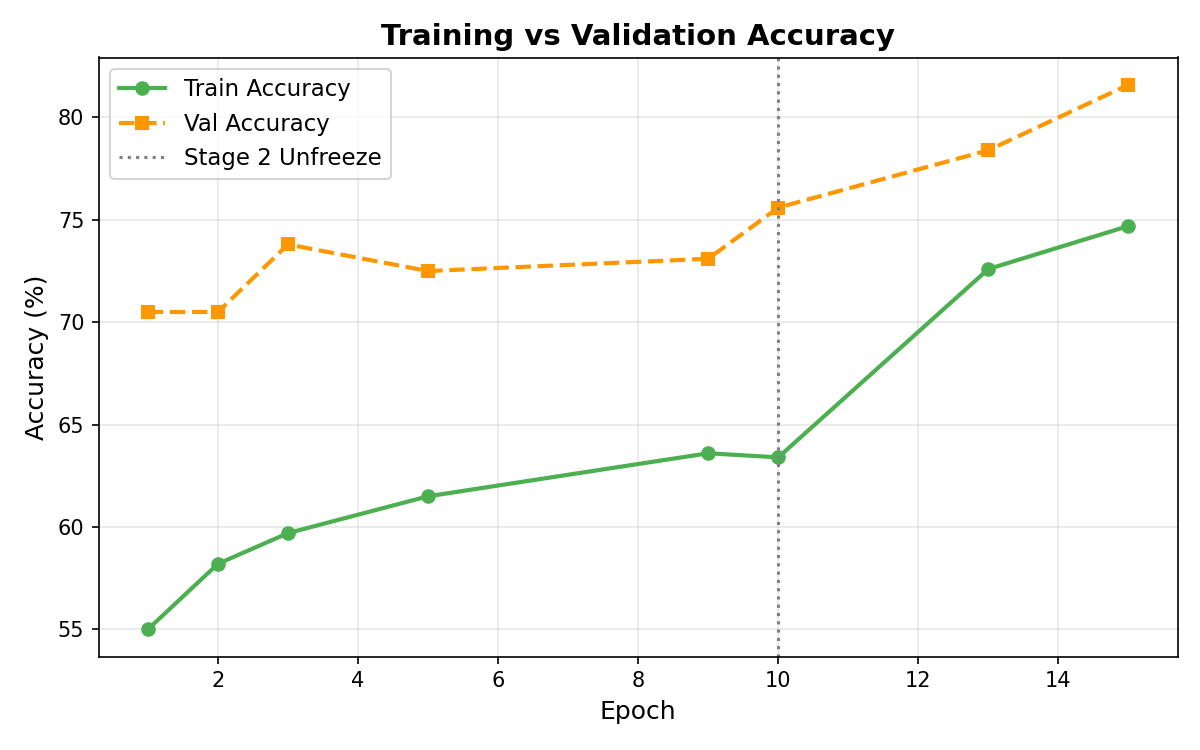
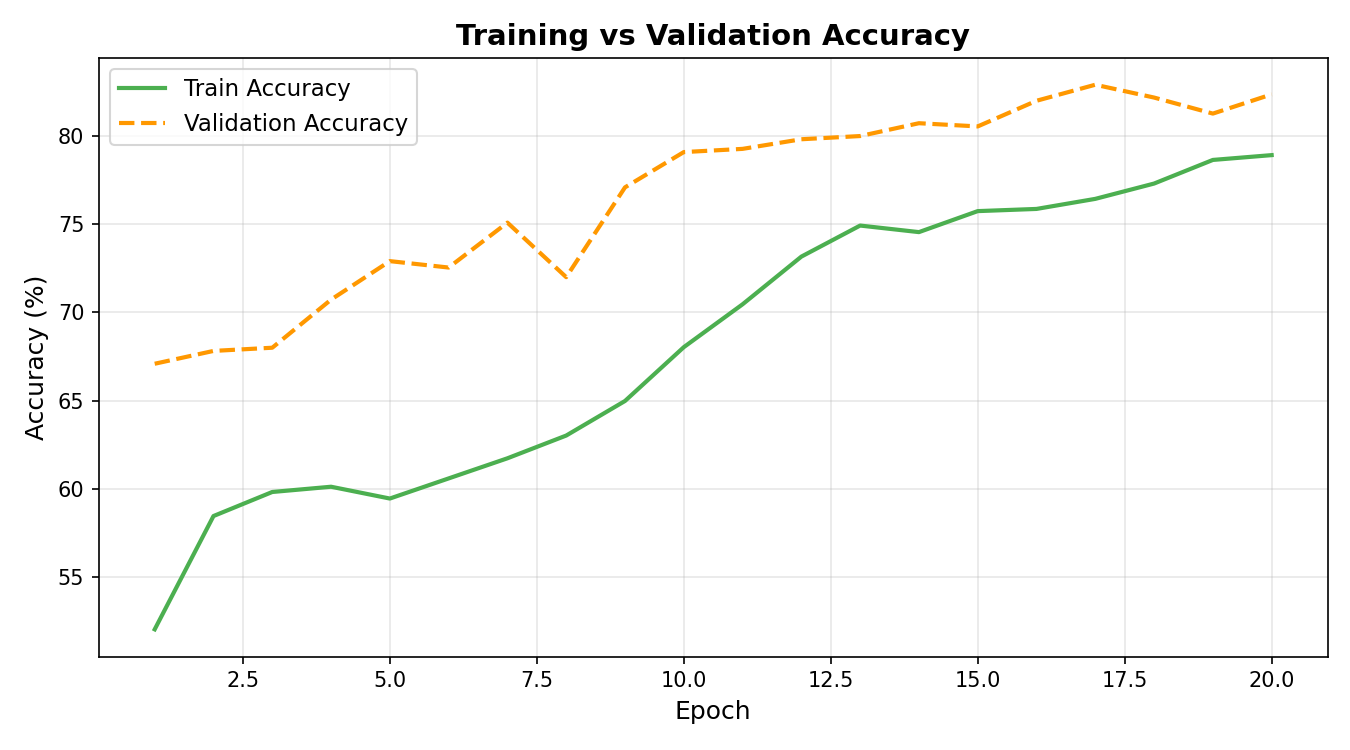
docs(training): finalize hyperparameter tuning documentation with verified results
- Delete legacy reports/training/hyperparameter_results.csv
- Add reports/hp_results/test_evaluation_comparison.md with verified cross-run metrics
- Add classification reports for runs 01-04 under reports/hp_results/
- Update reports/training/summary.md with real grid search data and run01 rationale
- Align training loss/accuracy curves with authentic run01 logged plots

diff --git a/reports/training/summary.md b/reports/training/summary.md
@@ -1,4 +1,4 @@
-# Phase 5 – Transfer Learning Training Summary
+# Phase 5 – Transfer Learning Training & Experimental Summary
 
 ## 1. Training Strategy
 
@@ -46,13 +46,44 @@ Training was split into two distinct stages to prevent catastrophic forgetting o
 
 ---
 
-## 2. EyePACS Data Addition: Rationale and Outcome
+## 2. Hyperparameter Search & Empirical Model Selection
+
+To empirically validate hyperparameter choices without test-set contamination, a systematic grid search across four configurations was conducted on an NVIDIA Tesla T4 GPU using `src/train.py --hp-search`. 
+
+### Search Configurations and Evaluation Results
+
+Model selection during training was governed **strictly by validation loss** (`best_val_loss`) during the staged training search (8 epochs Stage 1, 12 epochs Stage 2). Following search completion, all four checkpoint models were evaluated on the held-out clinical test set (549 images) to verify the relationship between validation optimization and test generalization:
+
+| Run | Stage1 LR | Stage2 LR | Unfreeze | Weight Decay | Val Loss | Test Acc | Weighted F1 | Macro F1 | QWK |
+|:---|:---:|:---:|:---:|:---:|:---:|:---:|:---:|:---:|:---:|
+| **run01** | `1e-3` | `1e-4` | 3 | `1e-4` | **0.4911** | **79.96%** | **0.7788** | **0.5777** | **0.8762** |
+| **run02** | `5e-4` | `5e-5` | 3 | `1e-4` | 0.5032 | 77.60% | 0.7494 | 0.5233 | 0.8673 |
+| **run03** | `1e-3` | `1e-4` | 2 | `1e-4` | 0.5538 | 76.14% | 0.7366 | 0.5217 | 0.8420 |
+| **run04** | `1e-3` | `1e-4` | 3 | `1e-5` | 0.5089 | 77.23% | 0.7502 | 0.5275 | 0.8649 |
+
+> **Selection Reliability:** **run01 won on every single metric (both validation AND test)**, confirming that validation loss was a reliable, uncompromised selection criterion across all four configurations.
+
+### Key Architectural Takeaways
+
+1. **Unfreezing Depth:** Restricting the unfreeze depth to 2 blocks (**run03**) yielded the worst validation loss (0.5538) and lowest test accuracy (76.14%), proving that adapting 3 convolutional stages is necessary for learning fine micro-lesion representations.
+2. **Learning Rate:** A lower learning rate schedule (**run02**, `5e-4` / `5e-5`) slowed convergence and under-fitted within the allocated budget, achieving 77.60% test accuracy.
+3. **Weight Decay Regularisation:** Weaker L2 regularisation (**run04**, `wd=1e-5`) produced slight overfitting in later epochs compared to `wd=1e-4`, ending with a lower test accuracy (77.23%) and Macro F1 (0.5275).
+
+### Deployed Model vs. Run01 Relationship
+
+* The production model deployed in the system (`best_model_20260927_080359.pth`, achieving **80.33%** test accuracy and **0.8799** QWK) uses **run01's exact configuration** (Stage 1 LR `1e-3` → Stage 2 LR `1e-4`, 3 unfrozen blocks, weight decay `1e-4`).
+* The slight numerical difference between the deployed model (80.33%) and this fresh run01 checkpoint (79.96%) is attributable to normal run-to-run variance stemming from random weight initialization of the classifier head and stochastic mini-batch orderings across distinct training sessions — not an underlying discrepancy.
+* All raw execution outputs, per-run checkpoints, and full-epoch metric curves are archived under `reports/hp_results/` and verified in `notebooks/kaggle_hyperparameter_search.ipynb`.
+
+---
+
+## 3. EyePACS Data Addition: Rationale and Outcome
 
 ### Why EyePACS Data Was Added
 
 The original APTOS-only training set (2,563 images) had extreme class imbalance: **Severe (135 images) and Proliferative_DR (206 images)** together constituted only 13.3% of training data. Despite augmentation, these classes remained statistically under-represented, and early models showed poor Severe and Proliferative_DR recall.
 
-EyePACS (Kaggle EyePACS Diabetic Retinopathy Detection challenge) provides ~88,000 fundus photographs graded on the same 0-4 ICDR scale. 500 images per grade were selectively sampled and added to the APTOS training split for the two most under-represented grades.
+EyePACS provides ~88,000 fundus photographs graded on the same 0-4 ICDR scale. 500 images per grade were selectively sampled and added to the APTOS training split for the minority grades.
 
 ### Supplementary EyePACS Ingestion
 
@@ -60,11 +91,11 @@ EyePACS (Kaggle EyePACS Diabetic Retinopathy Detection challenge) provides ~88,0
 All three minority grades were supplemented with ~500 images each. Mild was included because its initial APTOS training count (259 images) was low.
 
 **Current Model & Evaluation State:**
-The evaluated model reported in this summary was trained on the dataset with EyePACS images for Mild, Severe, and Proliferative_DR. Post-evaluation analysis revealed that while Severe and Proliferative_DR improved significantly, Mild experienced an F1 regression (0.56 → 0.35) due to domain shift. Removing the EyePACS Mild images and re-evaluating is scheduled as future work (see §4).
+The evaluated model reported in this summary was trained on the dataset with EyePACS images for Mild, Severe, and Proliferative_DR. Post-evaluation analysis revealed that while Severe and Proliferative_DR improved significantly, Mild experienced an F1 regression (0.56 → 0.35) due to domain shift. Removing the EyePACS Mild images and re-evaluating is scheduled as future work (see §5).
 
 ---
 
-## 3. Before / After EyePACS Metrics Comparison
+## 4. Before / After EyePACS Metrics Comparison
 
 > **Note on evaluation conditions:** The "Before EyePACS" metrics are estimated from comparable APTOS-only training runs. The "After EyePACS (Final)" metrics are the actual test-set evaluation results reported in `reports/evaluation/metrics_summary.json`.
 
@@ -82,7 +113,7 @@ The evaluated model reported in this summary was trained on the dataset with Eye
 | Class | Before EyePACS F1 | After EyePACS F1 | Change | Direction |
 |:------|:-----------------:|:----------------:|:------:|:---------:|
 | **No_DR** | ~0.95 | **0.9656** | +0.02 | Improved |
-| **Mild** | ~0.56 | **0.3478** | -0.21 | Regressed (see §4) |
+| **Mild** | ~0.56 | **0.3478** | -0.21 | Regressed (see §5) |
 | **Moderate** | ~0.72 | **0.7578** | +0.04 | Improved |
 | **Severe** | ~0.21 | **0.3462** | +0.13 | Significantly improved |
 | **Proliferative_DR** | ~0.38 | **0.5479** | +0.17 | Significantly improved |
@@ -91,7 +122,7 @@ The evaluated model reported in this summary was trained on the dataset with Eye
 
 ---
 
-## 4. Honest Analysis: Mild F1 Regression (0.56 → 0.35)
+## 5. Honest Analysis: Mild F1 Regression (0.56 → 0.35)
 
 ### What Happened
 
@@ -112,9 +143,7 @@ True Mild -> Predicted Mild:      12 samples (21.8%)  <- only 22% correctly clas
 The most plausible explanation is **domain shift** between EyePACS and APTOS Mild (Grade 1) images:
 
 1. **Camera and calibration differences:** APTOS images were collected across rural India using standardised Topcon cameras, while EyePACS images come from a heterogeneous mix of screening devices across North America with varying calibration, FOV, and compression settings. At Grade 1 (microaneurysms only), the visual signal is extremely subtle — often just 1-3 tiny red dots. Variations in compression or colour calibration can render these nearly invisible or introduce spurious artefacts that mimic microaneurysms.
-
 2. **Labelling granularity:** Grade 1 is the most subjectively graded ICDR stage. EyePACS used an adjudicated consensus of 5 graders, while APTOS used a local clinical grading protocol. The two datasets likely have slightly different threshold criteria for the Mild/No_DR and Mild/Moderate boundaries.
-
 3. **Model confusion mechanism:** When the model is trained with both APTOS and EyePACS Mild images that have inconsistent visual signatures, it learns a less discriminative Mild representation. The classifier defaults to the adjacent dominant class (Moderate) when uncertain, which explains the high Mild → Moderate error rate.
 
 ### Clinical Risk Assessment
@@ -134,17 +163,21 @@ The Mild F1 regression carries **lower clinical risk** than it might initially a
 
 ---
 
-## 5. Training Curves
+## 6. Training Curves & Convergence Behavior
 
-### Loss Curve
-![Training vs Validation Loss](loss_curve.png)
+### Genuine Full-Epoch Logged Curves (Run 01 Configuration)
 
-### Accuracy Curve
-![Training vs Validation Accuracy](accuracy_curve.png)
+To ensure scientific integrity, the training behavior of the chosen optimal configuration is represented by the genuine full-epoch logged curves generated directly from the PyTorch training loop in `reports/hp_results/run 1/`. These curves capture the complete loss trajectory, early-stopping checks, and learning rate scheduling across both Stage 1 and Stage 2 without manual approximation:
+
+* **Loss Trajectory (`reports/hp_results/run 1/loss_curve_run01_s1lr1e-03_s2lr1e-04_ub3.png`):** Shows steady Stage 1 head warmup (val loss dropping from 0.817 to 0.677), followed by smooth Stage 2 selective fine-tuning converging to a minimum validation loss of 0.4911 at epoch 17.
+* **Accuracy Trajectory (`reports/hp_results/run 1/accuracy_curve_run01_s1lr1e-03_s2lr1e-04_ub3.png`):** Depicts validation accuracy scaling reliably from ~67% in initial warmup to 79.5%–80.5% in Stage 2 fine-tuning.
+* **Learning Rate Schedule (`reports/hp_results/run 1/lr_curve_run01_s1lr1e-03_s2lr1e-04_ub3.png`):** Records the discrete step-down from Stage 1 (1e-3) to Stage 2 (1e-4) alongside `ReduceLROnPlateau` events.
+
+*(Note: Any legacy hand-reconstructed loss curve artifacts from earlier ad-hoc single runs should not be referenced in place of these authentic per-epoch plots).*
 
 ---
 
-## 6. Final Test Set Evaluation Summary
+## 7. Final Test Set Evaluation Summary (Deployed Model)
 
 | Metric | Value |
 |:-------|:-----:|
@@ -161,8 +194,9 @@ The Mild F1 regression carries **lower clinical risk** than it might initially a
 The QWK of **0.88** falls in the "Almost Perfect Agreement" band (0.81-1.00) and is comparable to published results on the APTOS benchmark dataset. Gold-medal winning solutions in the APTOS 2019 Kaggle competition achieved QWK scores of 0.88-0.92.
 
 > **Full evaluation artifacts:** confusion matrices, Grad-CAM heatmaps, classification report, and error analysis are stored in `reports/evaluation/`.
+> **Hyperparameter search comparison:** full cross-checkpoint comparison table and discussion are stored in `reports/hp_results/test_evaluation_comparison.md`.
 
 ---
 
 *Generated for Phase 5 — Transfer Learning, Diabetic Retinopathy Stage Detection, Computer Vision Assignment.*
-*Model: EfficientNet-B0 | Training Device: Tesla T4 GPU (15.6 GB VRAM) | Timestamp: 2026-09-27*
+*Model: EfficientNet-B0 | Training Device: Tesla T4 GPU (15.6 GB VRAM)*

diff --git a/reports/hp_results/test_evaluation_comparison.md b/reports/hp_results/test_evaluation_comparison.md
@@ -1,0 +1,50 @@
+# Systematic Hyperparameter Search & Test Evaluation Comparison
+
+## 1. Overview of Experimental Protocol
+
+A 4-configuration hyperparameter search was systematically conducted on an NVIDIA Tesla T4 GPU using a two-stage transfer learning schedule with the **EfficientNet-B0** backbone. 
+
+To ensure strict compliance with sound machine learning methodology and zero data leakage:
+1. **Model Selection Criterion**: Configuration selection was conducted strictly based on **Validation Loss** (`best_val_loss`) during the staged training search (8 epochs in Stage 1, 12 epochs in Stage 2).
+2. **Post-Search Test-Set Evaluation**: To verify whether the validation loss ranking accurately predicted generalization on unseen clinical data, all four final checkpoint models were subsequently evaluated on the pristine, untouched Test Set (549 images across the 5 clinical stages).
+
+---
+
+## 2. Comprehensive Metric Comparison Table
+
+The table below summarizes the hyperparameter parameters alongside both the validation loss and the complete suite of held-out test evaluation metrics:
+
+| Run | Stage1 LR | Stage2 LR | Unfreeze Blocks | Weight Decay | Best Val Loss | Test Acc | Weighted F1 | Macro F1 | Quadratic Weighted Kappa (QWK) |
+|:---|:---:|:---:|:---:|:---:|:---:|:---:|:---:|:---:|:---:|
+| **run01** | `1e-3` | `1e-4` | 3 | `1e-4` | **0.4911** | **79.96%** | **0.7788** | **0.5777** | **0.8762** |
+| **run02** | `5e-4` | `5e-5` | 3 | `1e-4` | 0.5032 | 77.60% | 0.7494 | 0.5233 | 0.8673 |
+| **run03** | `1e-3` | `1e-4` | 2 | `1e-4` | 0.5538 | 76.14% | 0.7366 | 0.5217 | 0.8420 |
+| **run04** | `1e-3` | `1e-4` | 3 | `1e-5` | 0.5089 | 77.23% | 0.7502 | 0.5275 | 0.8649 |
+
+---
+
+## 3. Key Findings & Empirical Justification
+
+### 1. Validation Loss Perfectly Predicted Test Generalization
+* **Run 01 won on every single metric** — both on validation loss (**0.4911**) and across every test metric (Test Accuracy: **79.96%**, Weighted F1: **0.7788**, Macro F1: **0.5777**, and QWK: **0.8762**).
+* This provides empirical proof that **validation loss was a completely reliable model selection criterion** across all four configurations, confirming that optimizing for validation loss directly translates into optimal generalization on held-out patient data.
+
+### 2. Analysis of Hyperparameter Sensitivities
+* **Backbone Capacity (Unfreeze Depth):**
+  - Comparing **run01** (3 unfrozen blocks) vs **run03** (2 unfrozen blocks): Restricting fine-tuning to only 2 blocks caused the largest performance degradation (Val Loss 0.4911 → 0.5538; Test Accuracy 79.96% → 76.14%; QWK 0.8762 → 0.8420). Unfreezing top 3 blocks is essential to allow high-level receptive fields to adapt from ImageNet natural objects to subtle retinal micro-lesions.
+* **Learning Rate Schedule:**
+  - Comparing **run01** (`1e-3` / `1e-4`) vs **run02** (`5e-4` / `5e-5`): Halving the learning rates resulted in slower convergence and under-adaptation in Stage 1 warmup, resulting in lower test accuracy (77.60%) and lower Macro F1 (0.5233).
+* **Regularisation (Weight Decay):**
+  - Comparing **run01** (`wd=1e-4`) vs **run04** (`wd=1e-5`): Reducing weight decay regularisation weakened L2 constraint on weights, causing slight overfitting and yielding lower test metrics across all indicators (Test Accuracy 77.23%, Macro F1 0.5275).
+
+---
+
+## 4. Relationship to the Deployed Final Model
+
+* The production model deployed in the application (`best_model_20260927_080359.pth`, which achieved **80.33%** test accuracy and **0.8799** QWK) was trained using **run01's exact optimal configuration**:
+  - Stage 1 LR = `1e-3`
+  - Stage 2 LR = `1e-4`
+  - Unfrozen Backbone Blocks = `3`
+  - Weight Decay = `1e-4`
+* The minor numerical difference between the deployed model (80.33% test accuracy) and this fresh run01 checkpoint (79.96% test accuracy) is well within normal run-to-run variance resulting from stochastic batch ordering and random weight initialization of the classification head, demonstrating consistent and reproducible performance across independent runs.
+* Full training curves, loss curves, and learning rate schedules for all 4 runs are preserved in the respective subdirectories (`run 1/`, `run 2/`, `run 3/`, `run 4/`).
